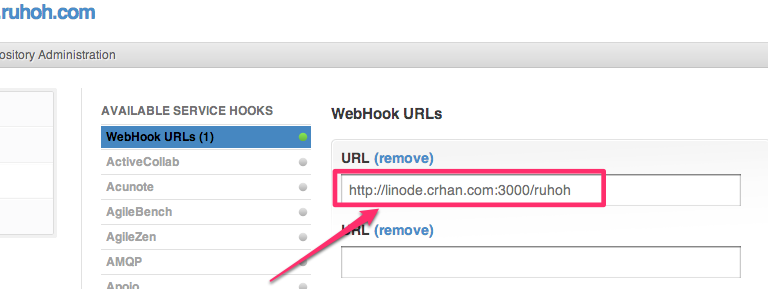
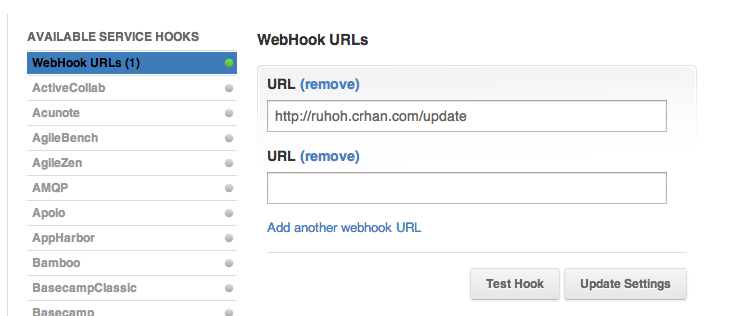
修改使用方法

diff --git a/README.md b/README.md
@@ -8,13 +8,13 @@
 
 ## 第二步
 
-添加 [http://linode.crhan.com:3000/ruhoh][5] 到 [WebHooks][]
+添加 [http://ruhoh.crhan.com/update][5] 到 [WebHooks][]
 
 ![][2]
 
 ## 第三步
 
-添加目标域名的 A 记录到 `173.255.218.208`, AAAA 记录到 `2600:3c01::f03c:91ff:feae:6ad0`
+添加目标域名的 CNAME 记录到 `ruhoh.crhan.com`
 
 ## 第四步
 
@@ -23,11 +23,14 @@
 ![][3]
 
 [WebHooks]: https://help.github.com/articles/post-receive-hooks
-[1]: https://raw.github.com/crhan/ruhoh_hosting_server/2bb6499978a8db472ab7684e45d8fc949fa65bb2/public/add_homepage.png
-[2]: https://raw.github.com/crhan/ruhoh_hosting_server/2bb6499978a8db472ab7684e45d8fc949fa65bb2/public/add_hook.png
-[3]: https://raw.github.com/crhan/ruhoh_hosting_server/2bb6499978a8db472ab7684e45d8fc949fa65bb2/public/test_hook.png
-[4]: blog.crhan.com
-[5]: http://linode.crhan.com:3000/ruhoh
+[1]:
+https://raw.github.com/crhan/ruhoh_hosting_server/master/public/add_homepage.png
+[2]:
+https://raw.github.com/crhan/ruhoh_hosting_server/master/public/add_hook.png
+[3]:
+https://raw.github.com/crhan/ruhoh_hosting_server/master/public/test_hook.png
+[4]: http://blog.crhan.com
+[5]: http://ruhoh.crhan.com/update
 
 ----
 
@@ -42,13 +45,13 @@ it is [blog.crhan.com][]
 
 ## Second
 
-Adding [WebHooks][] http://linode.crhan.com:3000/ruhoh to your repo
+Adding [WebHooks][] http://ruhoh.crhan.com/update to your repo
 
 ![][2]
 
 ## Third
 
-Point your domain's A record to `173.255.218.208`, and AAAA record `2600:3c01::f03c:91ff:feae:6ad0` (only if you want to support ipv6)
+Point your domain's A record to `ruhoh.crhan.com`
 
 ## Last
 
